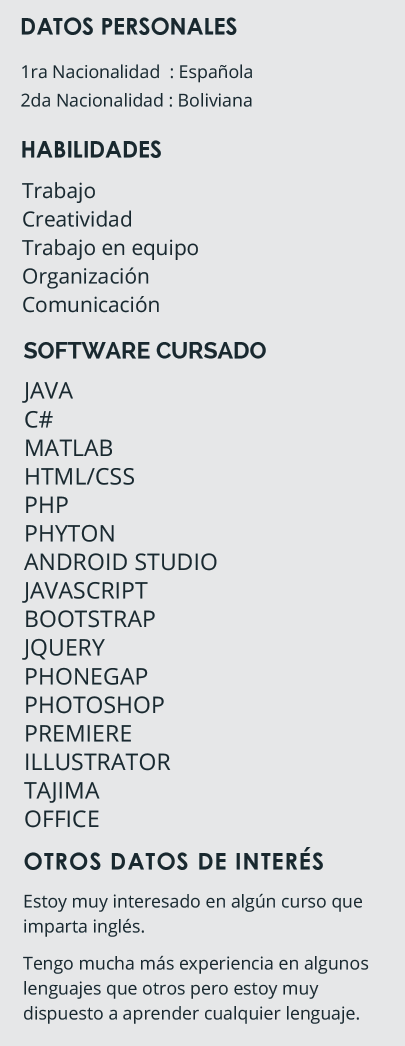
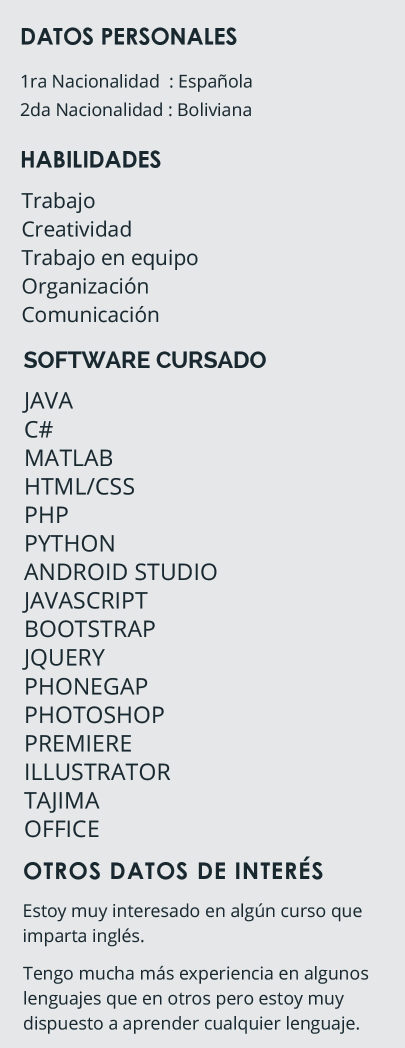
Corregimos informacion

Changed region(s): [[0.0593, 0.0, 0.9185, 1.0]]

diff --git a/index.html b/index.html
@@ -37,7 +37,7 @@
               <li><a href="#marcauniversidad" onclick="mostrarUniversidad();" id="linkuniversidad"><i class="fa fa-graduation-cap"></i>Universidad</a></li>
               <li><a href="#marcaproyectos" onclick="mostrarProyectos();" id="linkproyecto"><i class="fa fa-suitcase"></i>Proyectos</a></li>
               <li><a href="#marcadocumentos" onclick="mostrarDocumentos();" id="linkcontacto"><i class="fa fa-certificate"></i>Certificados</a></li>
-              <li><a href="https://drive.google.com/file/d/1MkV17gINyoKmYfPMh_01K4JhfleDePKE/view?usp=sharing" target="_blank"><i class="fa fa-cloud-download"></i>Descargar curriculúm (PDF)</a></li>
+              <li><a href="https://drive.google.com/file/d/1cfAjLkGWwytOORs7cB88m5gDPDld87ri/view?usp=sharing" target="_blank"><i class="fa fa-cloud-download"></i>Descargar curriculúm (PDF)</a></li>
             </ul>
             <ul class="smm__secondary-menu">
               <!--<li><a href="#" target="_blank"><i class="fa fa-facebook"></i></a></li>-->
@@ -843,7 +843,7 @@
       <p>En esta sección pueden observar algunos de los proyectos que realice</p>
       <h2><a onclick="mostrarDocumentos();" id="linkasidecontacto"><i class="fa fa-certificate"></i>Certificados</a></h2>
       <p>En esta sección enseño algunos de mis certificados que no contengan mucha información sensible</p>
-      <h2><a href="https://drive.google.com/file/d/1MkV17gINyoKmYfPMh_01K4JhfleDePKE/view?usp=sharing" target="_blank"><i class="fa fa-cloud-download"></i>Descargar curriculúm (PDF)</a></h2>
+      <h2><a href="https://drive.google.com/file/d/1cfAjLkGWwytOORs7cB88m5gDPDld87ri/view?usp=sharing" target="_blank"><i class="fa fa-cloud-download"></i>Descargar curriculúm (PDF)</a></h2>
       <p>Si lo desean pueden descargar mi curriculúm en un archivo PDF</p>
     </div><!--Fin aside-->
     <div class="footer">
